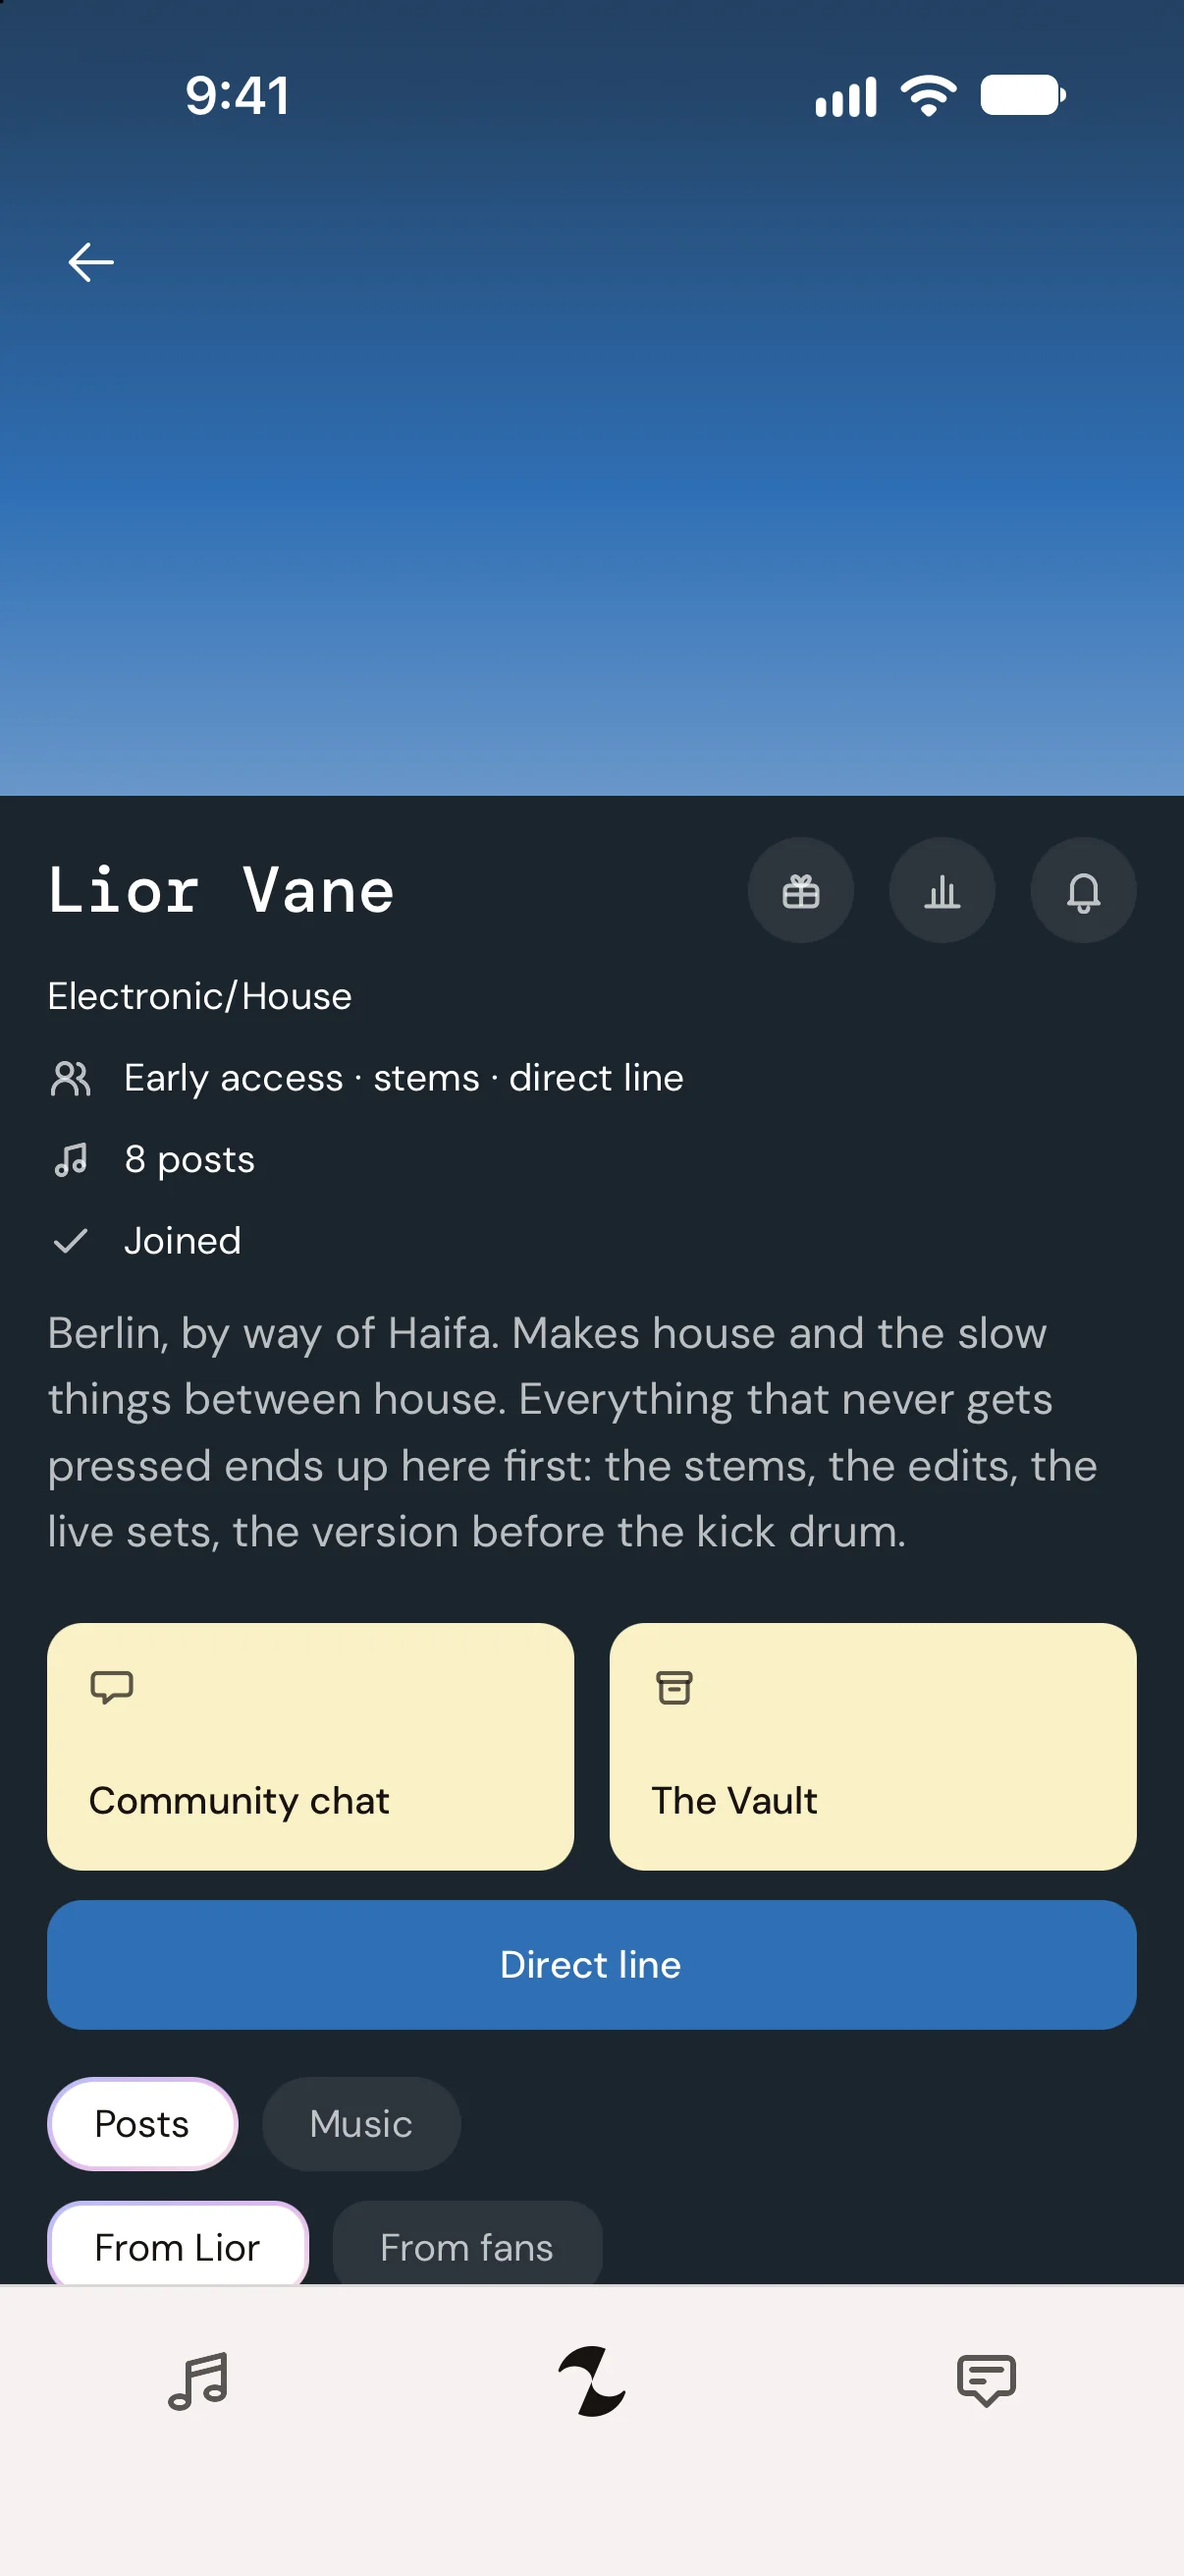
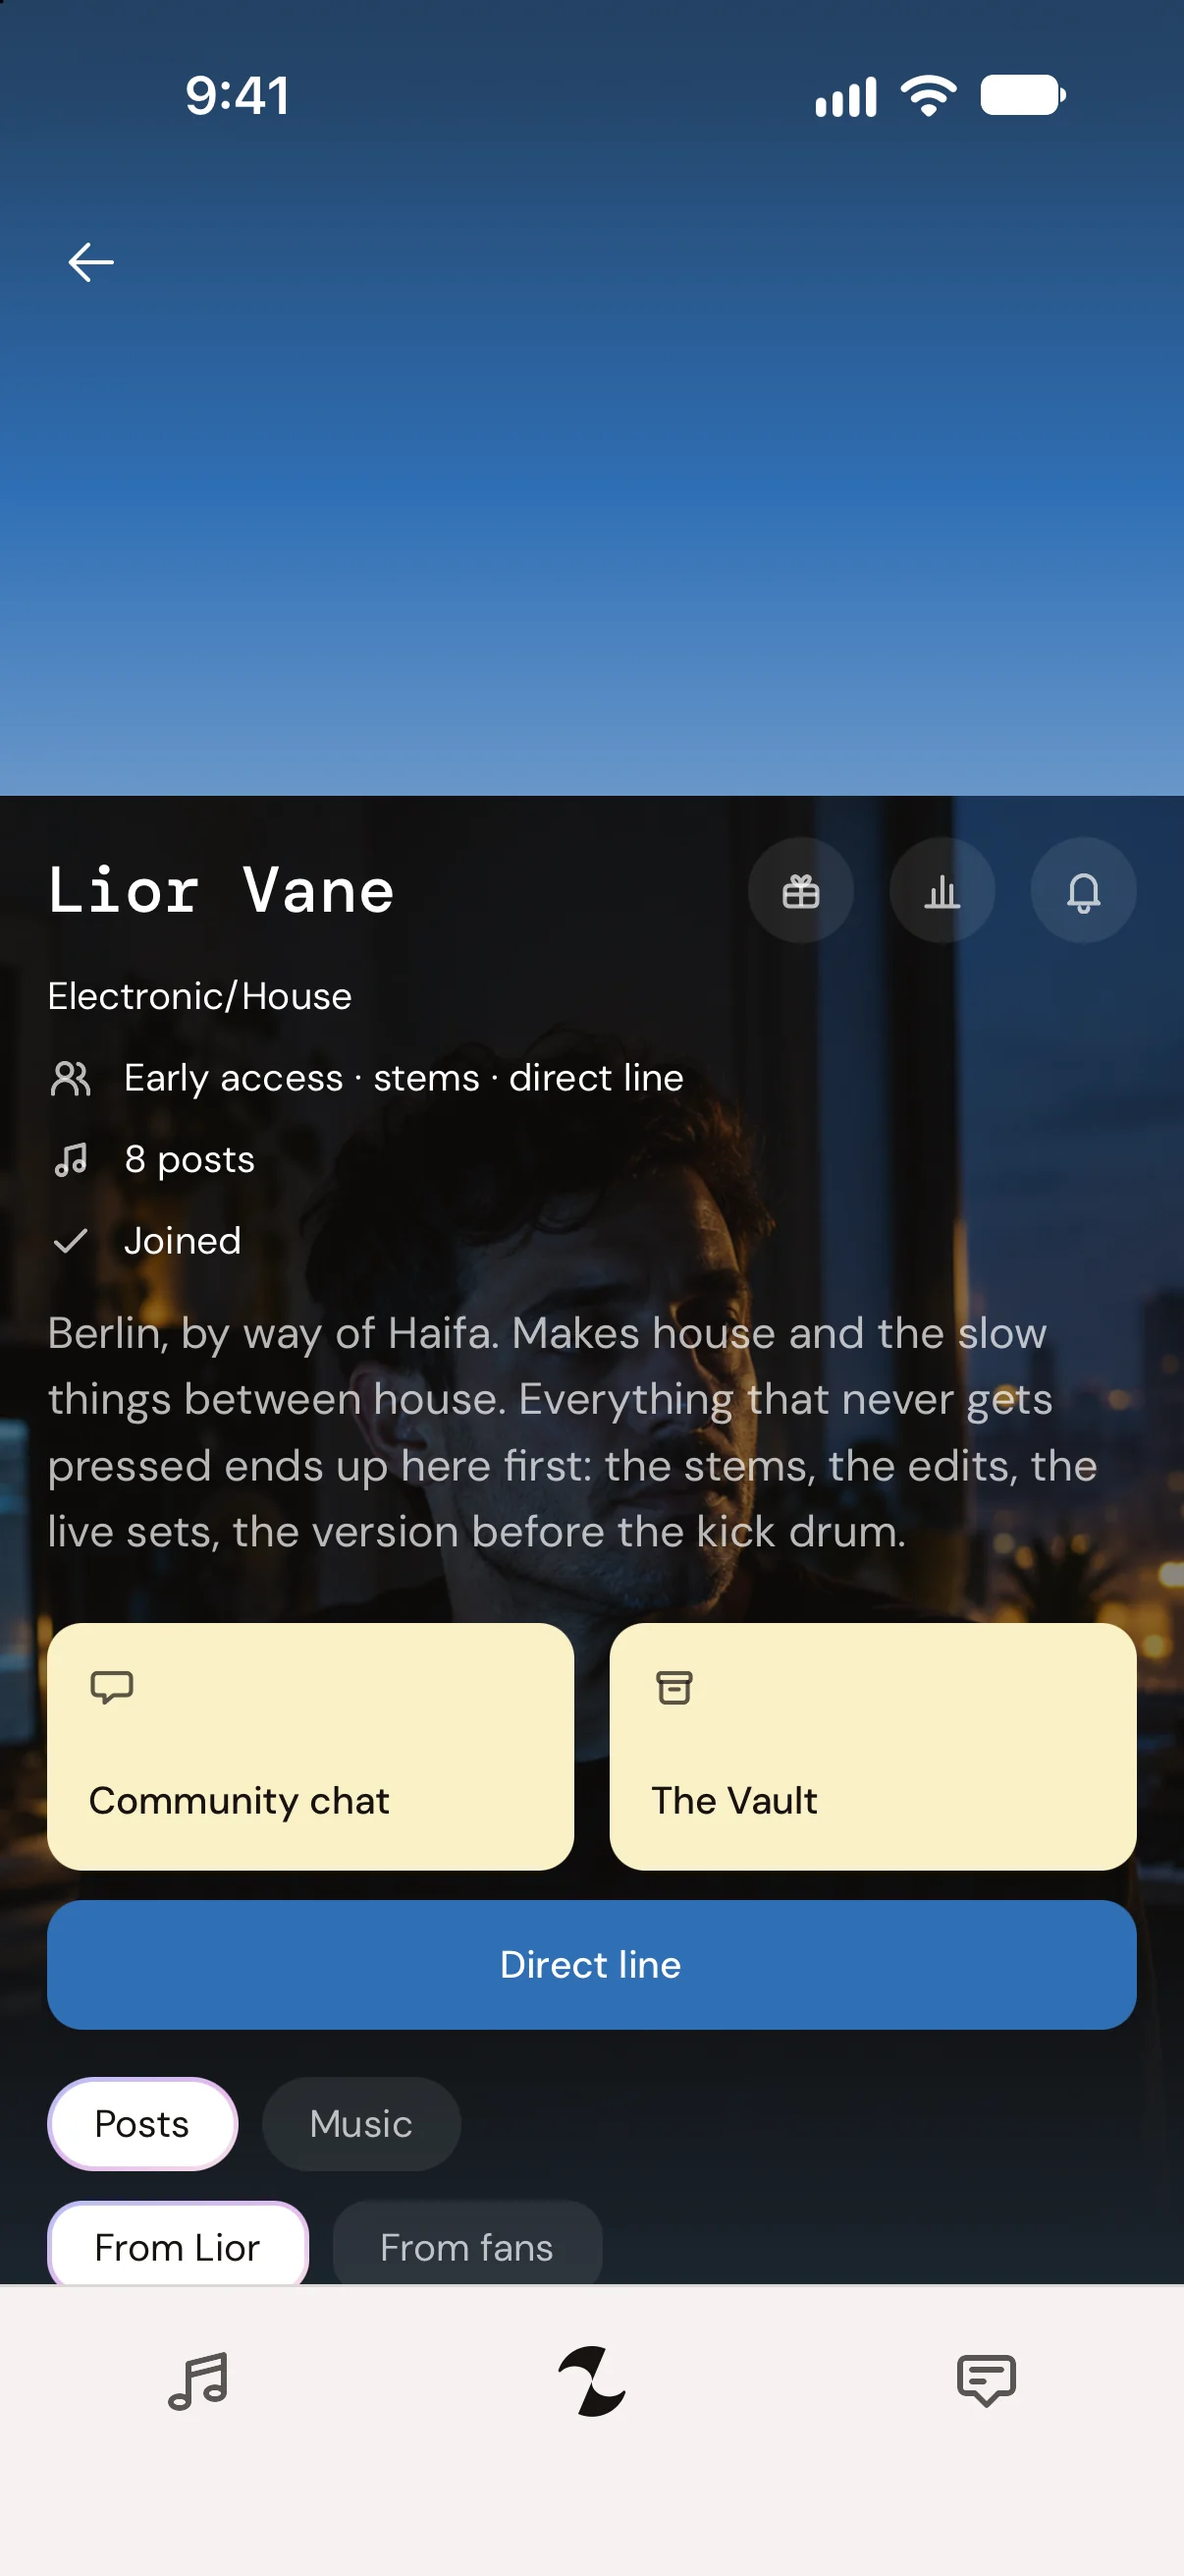
Fan Community screen with the artist's cover photo behind the page
The showcase artist's community now has a cover (his own portrait, cut
4:5, set through the app's upload path on the local stack), so the screen
reads like a real artist's page, as in the Figma (456:1148), instead of an
empty colour band.

Changed region(s): [[0.0, 0.3089, 1.0, 0.8032]]

diff --git a/index.html b/index.html
@@ -193,7 +193,7 @@
               <p class="label beat__label">05 · The Fan Community</p>
               <h3 class="beat__title">Join, and all of it opens.</h3>
               <p class="beat__text">The line, the new music and the Vault, in one place. And the artist knows you were here early.</p>
-              <img class="beat__shot shot" data-fly src="assets/shot-community.webp" width="1206" height="2622" loading="lazy" decoding="async" alt="An artist’s Fan Community in the ZuZu app, marked Joined: early access, stems and a direct line, with doors to the community chat, the Vault and the direct line." />
+              <img class="beat__shot shot" data-fly src="assets/shot-community.webp" width="1206" height="2622" loading="lazy" decoding="async" alt="An artist’s Fan Community in the ZuZu app, over the artist’s photo and marked Joined: early access, stems and a direct line, with doors to the community chat, the Vault and the direct line." />
             </article>
           </div>
 
